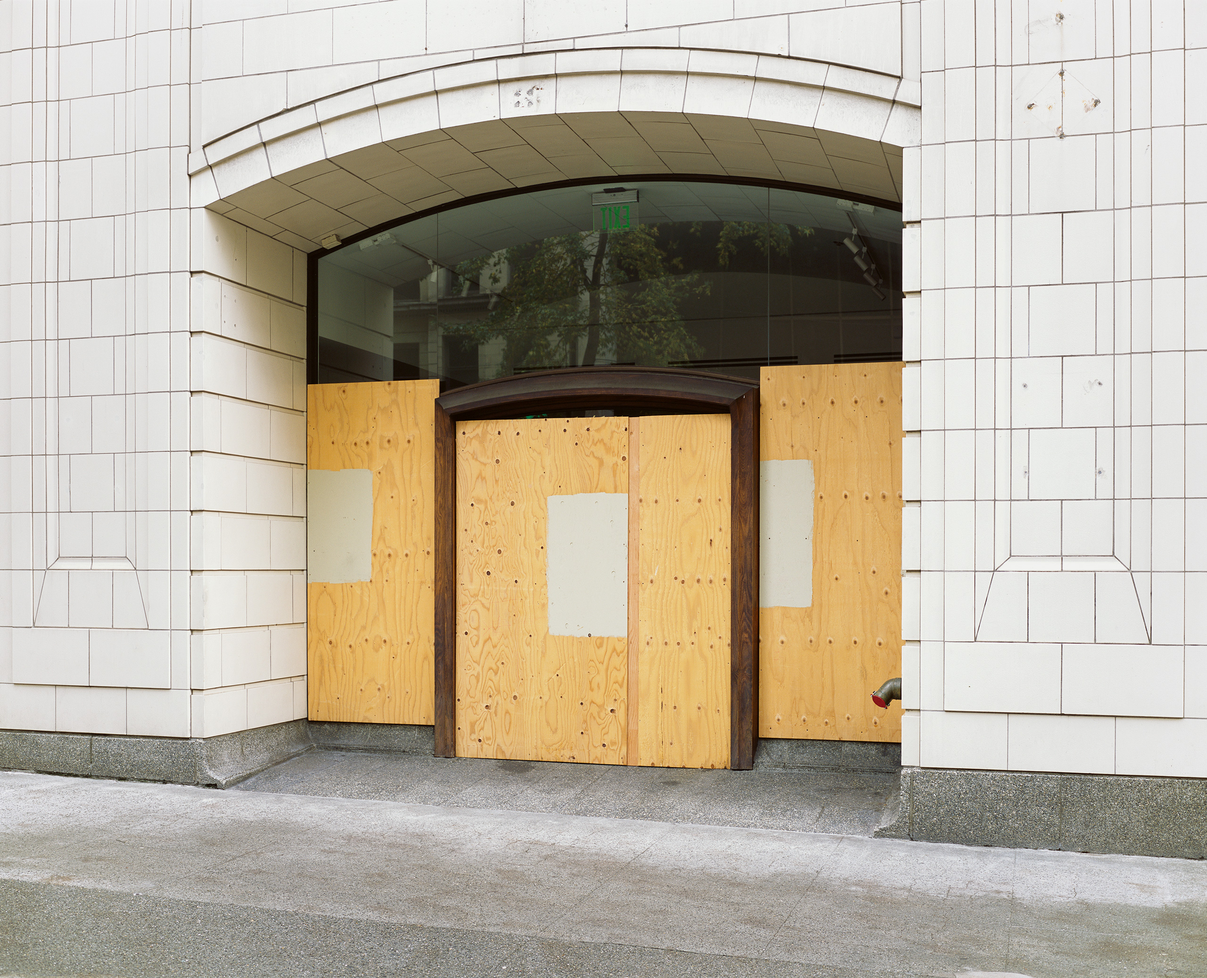
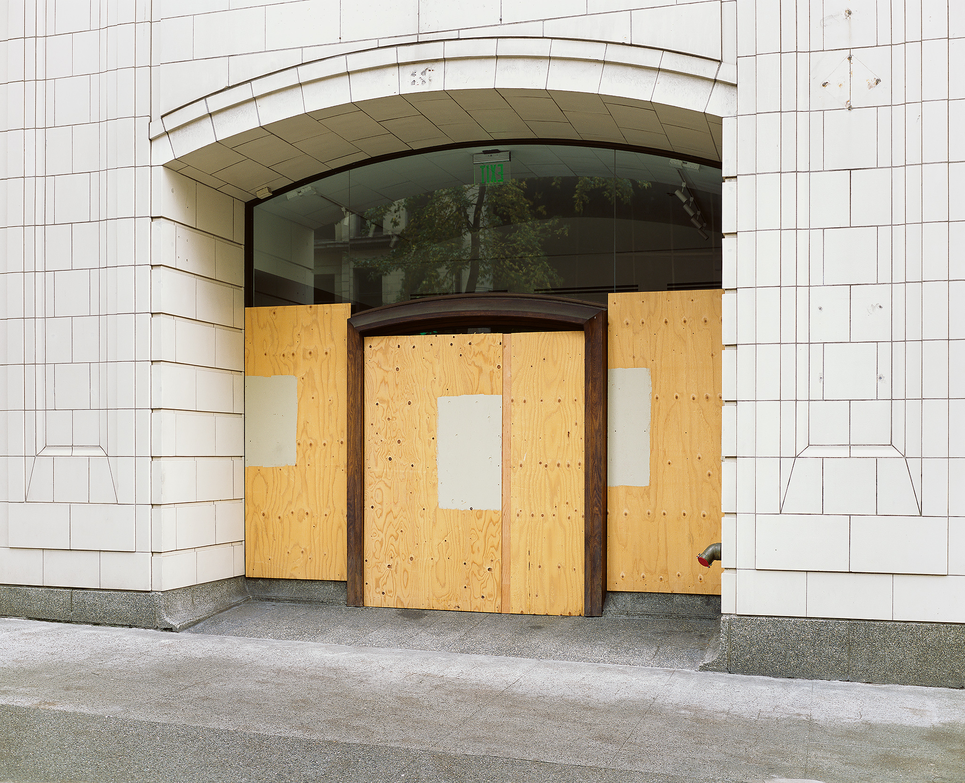
Ensure images are exactly double res
Better JPEGs from drum scans
Adjust main container CSS to allow for exactly 1024px max width

diff --git a/components/container.module.css b/components/container.module.css
@@ -2,7 +2,7 @@
   display: flex;
   flex-direction: column;
   min-height: 100%;
-  max-width: 68rem;
+  max-width: calc(1024px + 8rem); /* Accomodates 1024 photograph figures */
   padding-right: 1.5rem;
   padding-left: 1.5rem;
 }

diff --git a/components/photograph-figure.module.css b/components/photograph-figure.module.css
@@ -5,7 +5,7 @@
 .photographFigure img {
   width: 100%;
   max-width: 1024px;
-  max-height: 80vh;
+  max-height: 90vh;
   object-fit: contain;
   object-position: 0 0;
 }
